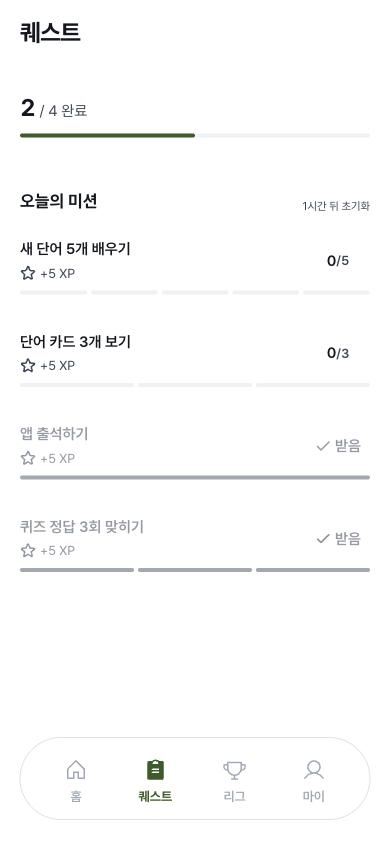
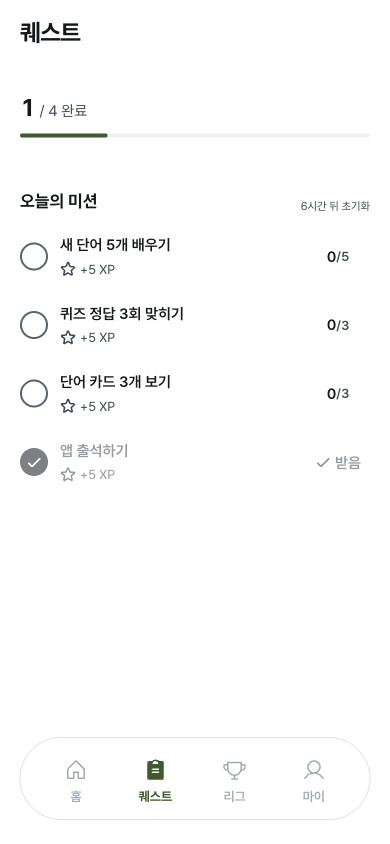
퀘스트 미션별 칸 게이지를 없애고 왼쪽 원(끝내면 체크)·오른쪽 숫자로, 게이지는 전체 진행 하나만

diff --git a/src/index.css b/src/index.css
@@ -876,13 +876,14 @@ button.nickname-clear { display: inline-flex; flex: 0 0 44px; width: 44px; heigh
 .quest-hero-character { width: 72px; height: auto; flex-shrink: 0; }
 .quest-hero-count { margin-top: var(--space-1); color: var(--color-ink-3); font-size: var(--font-size-body); font-variant-numeric: tabular-nums; }
 .quest-hero-count > strong { color: var(--color-neutral-strong); font-size: var(--font-size-title-2); font-weight: var(--font-weight-bold); }
-.home-mission-top { display: grid; grid-template-columns: minmax(0, 1fr) 64px; align-items: center; gap: var(--space-2); }
+.home-mission-top { display: grid; grid-template-columns: 28px minmax(0, 1fr) 64px; align-items: center; gap: var(--space-3); }
+.home-mission-check { display: flex; width: 28px; height: 28px; align-items: center; justify-content: center; border: 2px solid var(--color-line-strong); border-radius: 50%; color: var(--color-card); }
+.home-mission-row[data-done] .home-mission-check { border-color: var(--color-neutral-strong); background: var(--color-neutral-strong); }
 .home-mission-info { min-width: 0; }
 .home-mission-title { font-weight: var(--font-weight-semibold); line-height: var(--line-height-title); word-break: keep-all; overflow-wrap: anywhere; }
 .home-mission-info > p + p { margin-top: var(--space-1); }
 .home-mission-reward { color: var(--color-ink-3); font-weight: var(--font-weight-regular); }
 .home-mission-count { display: inline-flex; width: 64px; min-height: var(--size-touch-min); align-items: center; justify-content: center; font-variant-numeric: tabular-nums; }
-.home-mission-progress { margin-top: var(--space-2); }
 .home-mission-row[data-rewarded='true'] .home-mission-reward { color: var(--color-ink-4); }
 
 /* 복습 완료: 원래 수달·결과·잔액은 유지하고 결과 기록과 행동을 분리한다. */
@@ -1197,8 +1198,8 @@ button.course-home-rail-card:active { background: transparent; opacity: 0.7; }
 .league-tier-road { padding-inline: 0; border-radius: 0; background: transparent; box-shadow: none; }
 .quest-hero { padding: 0 0 var(--space-5); border-radius: 0; background: transparent; box-shadow: none; }
 #home-mission-list { gap: 0; margin-top: var(--space-2); }
-/* 게이지(연회색 막대)와 구분선이 겹쳐 보여 행은 선 없이 여백으로만 나눈다 */
-.home-mission-row { padding: var(--space-4) 0 var(--space-5); border-radius: 0; background: transparent; box-shadow: none; }
+/* 미션 행: 구분선 없이 여백으로만 나눈다 */
+.home-mission-row { padding: var(--space-3) 0; border-radius: 0; background: transparent; box-shadow: none; }
 .home-mission-row[data-rewarded] { background: transparent; opacity: 0.55; }
 .my-profile-card { padding: var(--space-2) 0 var(--space-5); border-radius: 0; background: transparent; box-shadow: none; border-bottom: 1px solid var(--color-line); }
 .my-page-panel { margin-bottom: 0; padding: var(--space-5) 0; border-radius: 0; background: transparent; box-shadow: none; border-bottom: 1px solid var(--color-line); }

diff --git a/src/pages/HomeScreen.tsx b/src/pages/HomeScreen.tsx
@@ -6,6 +6,7 @@ import { MISSION_XP } from '../constants';
 import { useAppContext } from '../context/AppContext';
 import { msUntilNextSlot } from '../lib/date';
 import { Card } from '../components/ui/Card';
+import { Check } from '../components/ui/OtterIcons';
 import { PointCelebration, type PointReward } from '../components/PointCelebration';
 import type { Mission } from '../types';
 import { XpIcon } from '../components/StatIcons';
@@ -68,8 +69,10 @@ const HomeScreen = () => {
             {missionList.map(mission => {
               const done = mission.current >= mission.target;
               return (
-                <div key={mission.id} className="home-mission-row" data-rewarded={mission.isRewarded || undefined}>
+                // 미션마다 게이지를 두면 한눈에 안 들어와, 왼쪽 원(끝내면 체크)과 오른쪽 숫자로만 보여준다. 게이지는 위 전체 진행 하나
+                <div key={mission.id} className="home-mission-row" data-rewarded={mission.isRewarded || undefined} data-done={done || undefined}>
                   <div className="home-mission-top">
+                    <span className="home-mission-check" aria-hidden="true">{done && <Check size={16} />}</span>
                     <div className="home-mission-info">
                       <p className={`home-mission-title text-sm ${mission.isRewarded ? 'text-[var(--color-ink-3)]' : 'text-[var(--color-ink)]'}`}>
                         {mission.title}
@@ -82,15 +85,6 @@ const HomeScreen = () => {
                       ? <MissionRewardStatus isRewarded={mission.isRewarded} pending={claimingMissionIds?.has(mission.id)} onClaim={() => handleClaim(mission.id)} />
                       : <span className="home-mission-count text-sm font-semibold text-[var(--color-ink)]">{mission.current}<span className="text-xs text-[var(--color-ink-4)]">/{mission.target}</span></span>
                     }
-                  </div>
-                  <div role="progressbar" aria-label={`${mission.title} 진행률`} aria-valuemin={0} aria-valuemax={mission.target} aria-valuenow={Math.min(mission.current, mission.target)} className="home-mission-progress flex gap-1">
-                    {Array.from({ length: mission.target }).map((_, i) => (
-                      <div
-                        key={i}
-                        className="flex-1 h-1 rounded-full transition-all duration-300"
-                        style={{ backgroundColor: mission.isRewarded ? 'var(--color-line-strong)' : i < mission.current ? 'var(--color-progress)' : 'var(--color-surface)' }}
-                      />
-                    ))}
                   </div>
                 </div>
               );

diff --git a/src/pages/CourseScreen.test.tsx b/src/pages/CourseScreen.test.tsx
@@ -597,7 +597,7 @@ describe('퀘스트의 미션 동작', () => {
     return container;
   };
 
-  it('오늘의 미션만 모두 표시하고 보상과 진행률을 유지한다', async () => {
+  it('오늘의 미션만 모두 표시하고 보상과 진행 숫자를 유지한다', async () => {
     const claimReward = vi.fn(async () => ({ xpGained: MISSION_XP }));
     baseContext({
       xp: 0, knownWords: [word(1)], unknownWords: [], attendanceDates: [], myEmoji: '🦦', claimReward,
@@ -623,8 +623,10 @@ describe('퀘스트의 미션 동작', () => {
     expect(rows[1].querySelector('.home-mission-count')).toHaveTextContent('1/3');
     expect(rows[1].querySelector('.home-mission-reward')).toHaveTextContent('+' + MISSION_XP + ' XP');
     expect(rows[1]).not.toHaveTextContent('코인');
-    expect(rows[0].querySelector('[role=progressbar]')).toHaveAttribute('aria-valuenow', '2');
-    expect(rows[0].querySelector('[role=progressbar]')?.children).toHaveLength(2);
+    // 미션마다 게이지 대신 왼쪽 원: 끝낸 미션만 체크
+    expect(rows.every(row => row.querySelector('[role=progressbar]') === null)).toBe(true);
+    expect(rows[0]).toHaveAttribute('data-done', 'true');
+    expect(rows[1]).not.toHaveAttribute('data-done');
     expect(rows[2].querySelector('button')).toBeNull();
     expect(rows[2].querySelector('[data-state=claimed]')).toHaveTextContent('받음');
     // '오늘의 미션' 제목은 목록 위 한 곳에만

diff --git a/DESIGN.md b/DESIGN.md
@@ -230,7 +230,7 @@
 ### 퀘스트 (`/home`)
 
 - 요약: `N / M 완료`, 전체 진행 막대. 미션을 모두 마치면 만세 수달이 붙는다.
-- 미션 목록: 구분선 목록. 각 행은 미션 이름, XP 아이콘 + 보상 XP, 진행 칸. 받은 미션은 흐리게, 취소선은 쓰지 않는다. 미션 제목 아래 문구는 받을 보상이 있을 때만.
+- 미션 목록: 구분선 없이 여백으로 나눈 목록. 각 행은 왼쪽 원(끝내면 검은 체크), 미션 이름, XP 아이콘 + 보상 XP, 오른쪽 `현재/목표` 또는 받기 버튼·받음. 미션마다 게이지는 두지 않는다(화면의 게이지는 위 전체 진행 하나). 받은 미션은 흐리게, 취소선은 쓰지 않는다.
 
 ### 리그 (`/league`)
 
